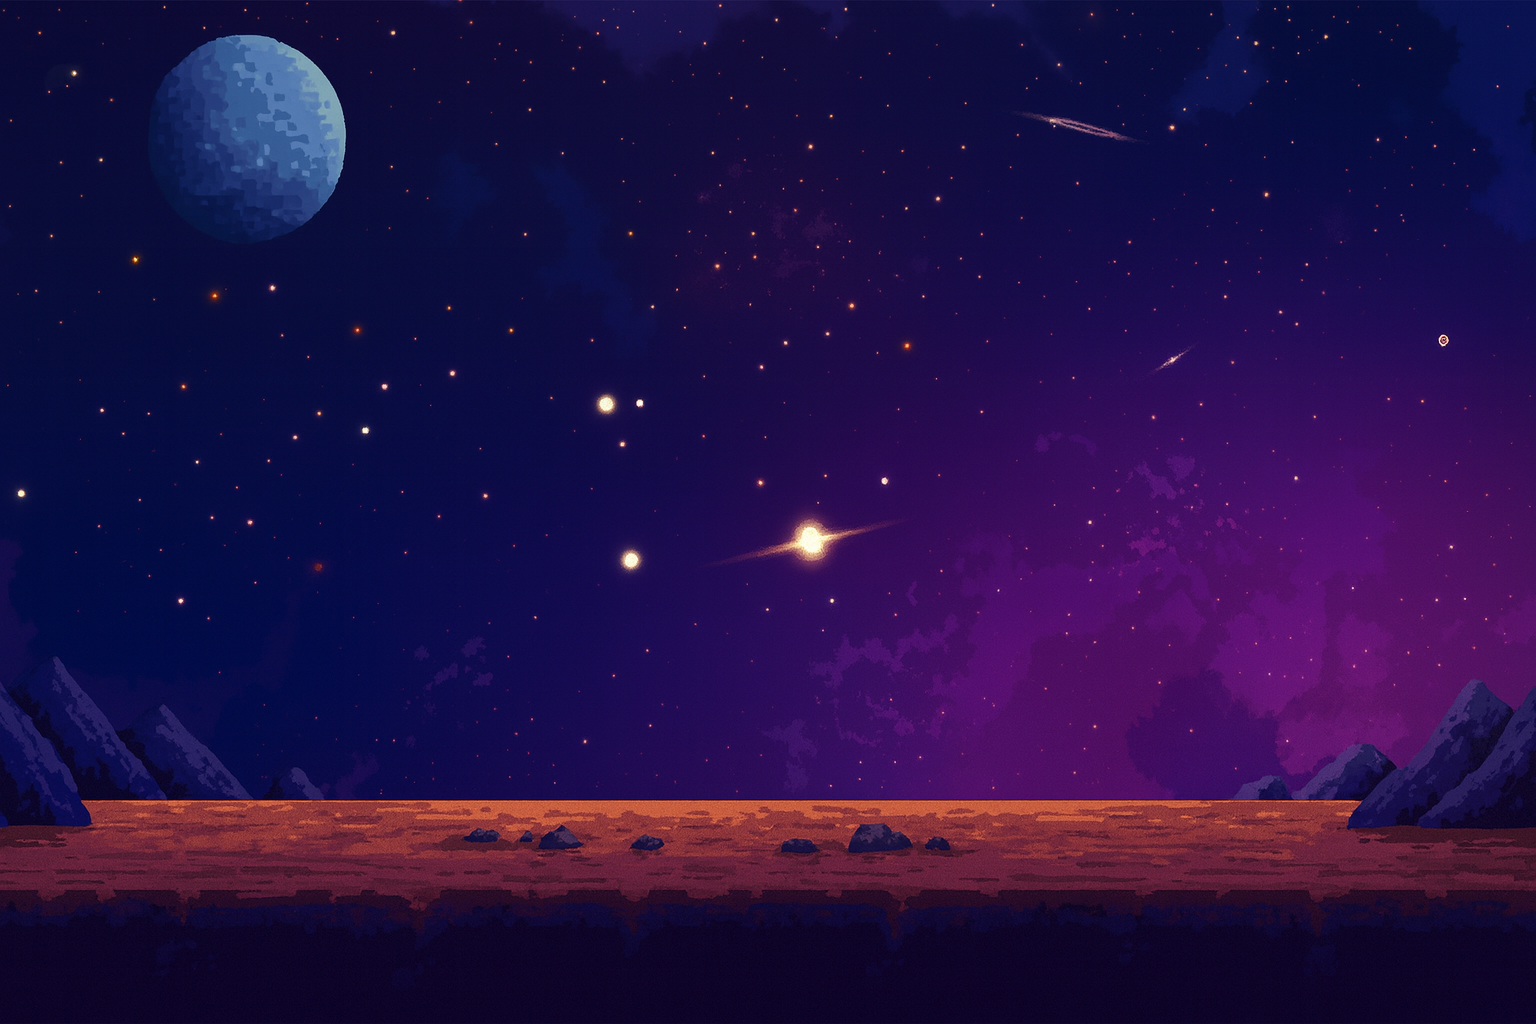
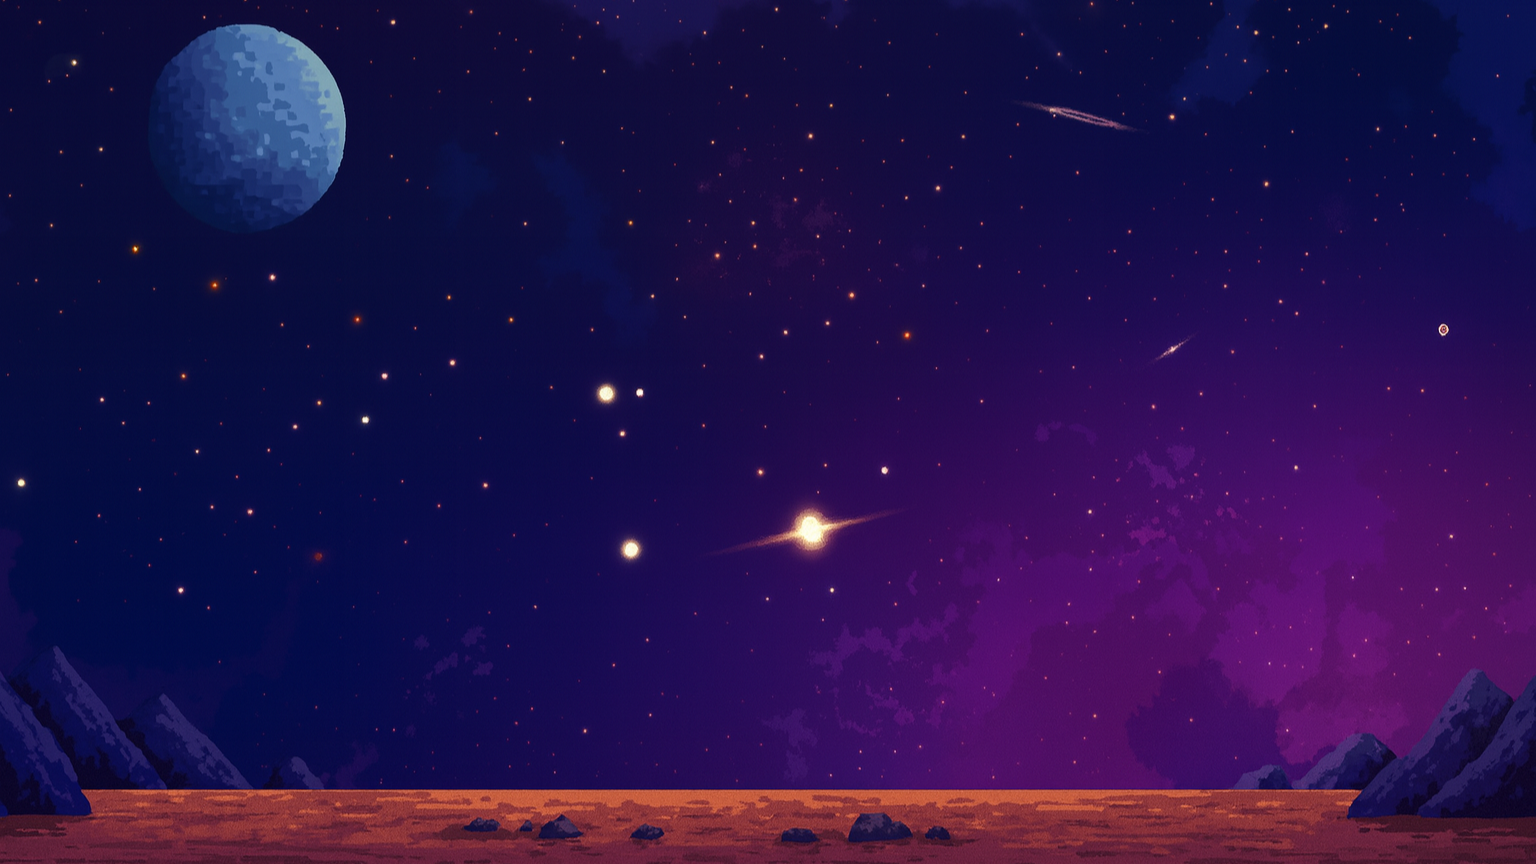
Hatter

diff --git a/src/style.css b/src/style.css
@@ -1,96 +1,101 @@
-:root {
-  font-family: system-ui, Avenir, Helvetica, Arial, sans-serif;
-  line-height: 1.5;
-  font-weight: 400;
-
-  color-scheme: light dark;
-  color: rgba(255, 255, 255, 0.87);
-  background-color: #242424;
-
-  font-synthesis: none;
-  text-rendering: optimizeLegibility;
-  -webkit-font-smoothing: antialiased;
-  -moz-osx-font-smoothing: grayscale;
-}
-
-a {
-  font-weight: 500;
-  color: #646cff;
-  text-decoration: inherit;
-}
-a:hover {
-  color: #535bf2;
-}
-
 body {
+  background-image: url(Imgages/Background.png);
   margin: 0;
+  padding: 0;
+  background-size: cover;
+  background-repeat: no-repeat;
+  background-attachment: fixed;
+  background-position: center;
+}
+
+.map {
+  height: 660px;
+  margin-left: 10px;
+}
+
+.menu {
+  width: 100%;
+  height: 100px;
   display: flex;
-  place-items: center;
-  min-width: 320px;
-  min-height: 100vh;
+  justify-content: end;
 }
 
-h1 {
-  font-size: 3.2em;
-  line-height: 1.1;
+.spaceship {
+  width: 128px;
+  height: 100px;
+  background-image: url(Imgages/SpaceshipRed.png);
+  background-size: 100%;
+  background-repeat: no-repeat;
+  position: absolute;
 }
 
-#app {
-  max-width: 1280px;
-  margin: 0 auto;
-  padding: 2rem;
-  text-align: center;
+.settings {
+  width: 70px;
+  height: 70px;
+  margin-top: 15px;
+  padding-right: 15px;
 }
 
-.logo {
-  height: 6em;
-  padding: 1.5em;
-  will-change: filter;
-  transition: filter 300ms;
-}
-.logo:hover {
-  filter: drop-shadow(0 0 2em #646cffaa);
-}
-.logo.vanilla:hover {
-  filter: drop-shadow(0 0 2em #3178c6aa);
+.gearPNG {
+  width: 70px;
+  height: 70px;
 }
 
-.card {
-  padding: 2em;
+.scoreBoard {
+  width: 700px;
+  height: 70px;
+  margin-top: 15px;
+  margin-right: 30px;
+  position: relative;
+  display: flex;
+  font-size: 30px;
+  color: wheat;
+  font-family: cursive;
+  font-weight: bold;
 }
 
-.read-the-docs {
-  color: #888;
+.timer {
+  width: 300px;
+  height: 50px;
+  margin-top: 15px;
+  position: absolute;
+  color: wheat;
+  font-family: cursive;
+  font-weight: bold;
+  font-size: 30px;
+  padding-left: 10px;
+  
 }
 
-button {
-  border-radius: 8px;
-  border: 1px solid transparent;
-  padding: 0.6em 1.2em;
-  font-size: 1em;
-  font-weight: 500;
-  font-family: inherit;
-  background-color: #1a1a1a;
-  cursor: pointer;
-  transition: border-color 0.25s;
-}
-button:hover {
-  border-color: #646cff;
-}
-button:focus,
-button:focus-visible {
-  outline: 4px auto -webkit-focus-ring-color;
+.currentScore {
+  width: 400px;
+  height: 50px;
+  
 }
 
-@media (prefers-color-scheme: light) {
-  :root {
-    color: #213547;
-    background-color: #ffffff;
-  }
-  a:hover {
-    color: #747bff;
-  }
-  button {
-    background-color: #f9f9f9;
-  }
+.bestScore {
+  width: 300px;
+  height: 50px;
+}
+
+.settingsList {
+  margin-top: 30px;
+  margin-right: 30px;
+  float: right;
+  width: 300px;
+  color: wheat;
+  font-family: cursive;
+  font-weight: bold;
+  font-size: 20px;
+  display: grid;
+  justify-content: end;
+}
+
+.settingsList p {
+  margin-top: 0;
+  margin-bottom: 0px;
+}
+
+.settingsList span {
+  font-size: 16px;
 }

diff --git a/index.html b/index.html
@@ -4,10 +4,30 @@
     <meta charset="UTF-8" />
     <link rel="icon" type="image/svg+xml" href="/vite.svg" />
     <meta name="viewport" content="width=device-width, initial-scale=1.0" />
-    <title>galactic</title>
+    <title>Galactic Fighter</title>
     <script type="module" src="/src/main.ts" defer></script>
   </head>
   <body>
-    
+    <div class="timer">Time: <span>00:00</span></div>
+    <div class="menu">
+      <div class="scoreBoard">
+        <div class="currentScore">Current Score: 0</div>
+        <div class="bestScore">Best Score: 0</div>
+      </div>
+      <div class="settings">
+        <img src="src/Imgages/Settings.png" alt="settings" class="gearPNG">
+      </div>
+    </div>
+    <div class="settingsList">
+      <p>Change Difficulty</p>
+        <div class="diff"><span>Easy</span> <span>Normal</span> <span>Hard</span></div>
+      <p>Change Spaceship</p>
+      <p>Change Backround</p>
+    </div>
+    <div class="map">
+      <div class="spaceship">
+
+      </div>
+    </div>
   </body>
 </html>
